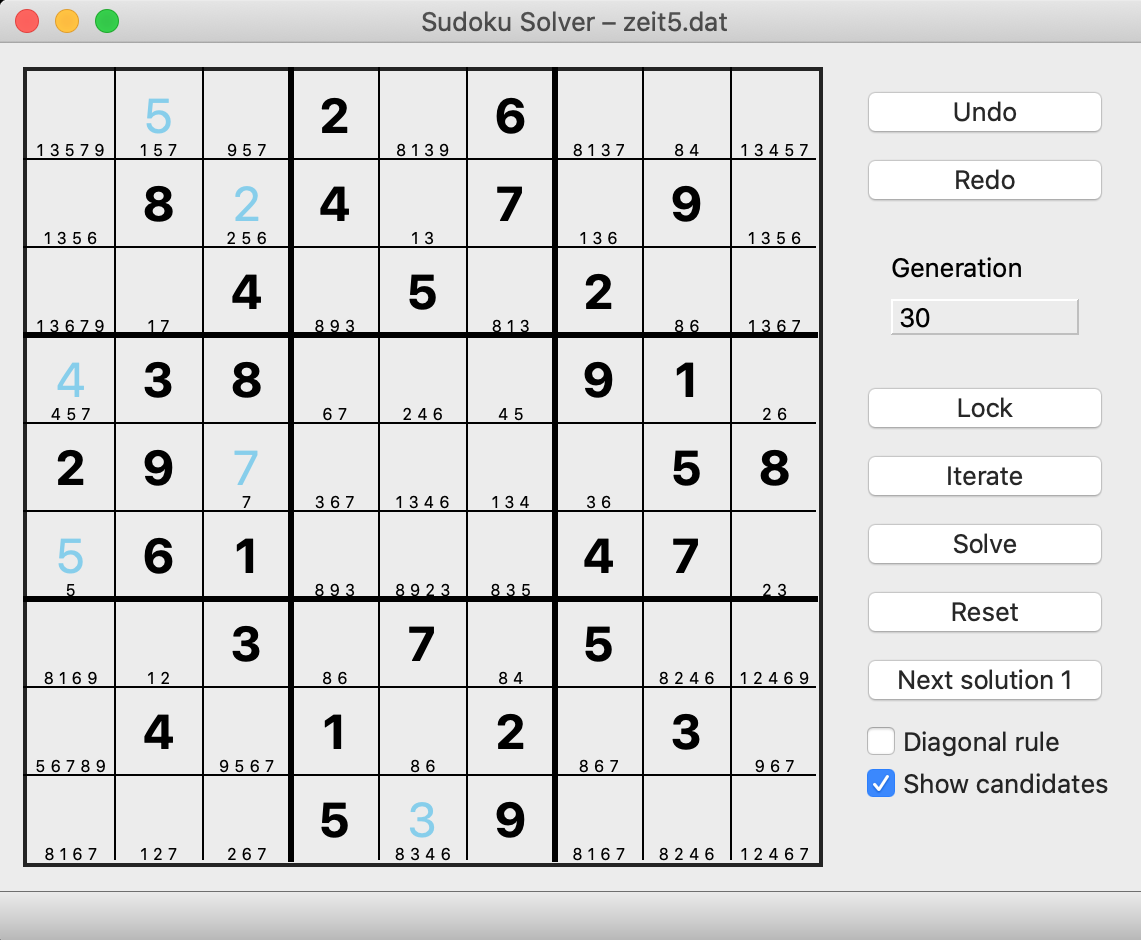
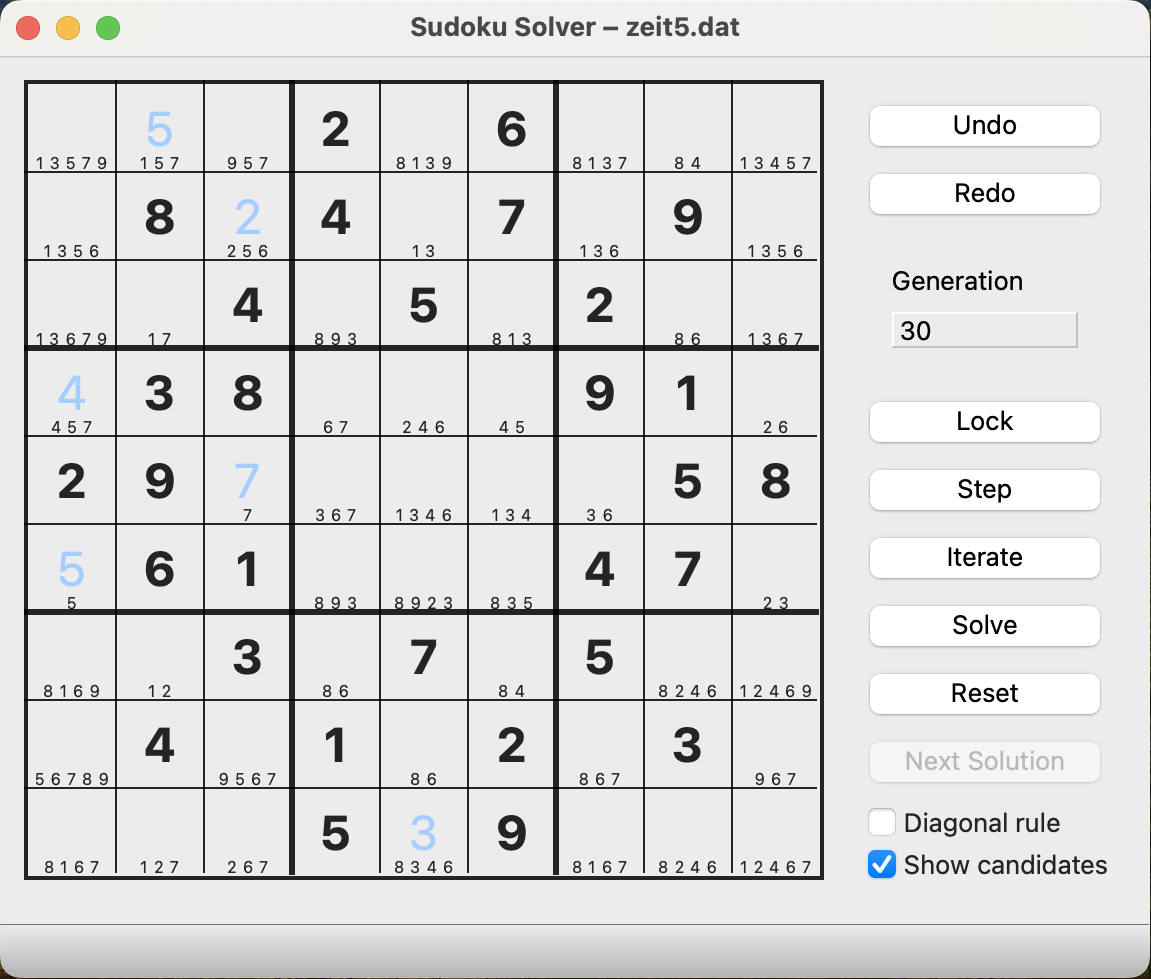
Add Step function to stop after entering current candidates

diff --git a/sudoku_GUI.py b/sudoku_GUI.py
@@ -236,7 +236,9 @@ class MainWindow(QtWidgets.QMainWindow):
         self.redo_button.clicked.connect(self.redo_action)                        
         self.redo_button.setShortcut(QtGui.QKeySequence.StandardKey.Redo)           
         self.lock_button = QtWidgets.QPushButton("Lock")
-        self.lock_button.clicked.connect(self.lock_action)        
+        self.lock_button.clicked.connect(self.lock_action)   
+        self.step_button = QtWidgets.QPushButton("Step")
+        self.step_button.clicked.connect(self.step_action)
         self.iterate_button = QtWidgets.QPushButton("Iterate")
         self.iterate_button.clicked.connect(self.iterate_action)
         self.solve_button = QtWidgets.QPushButton("Solve")
@@ -262,6 +264,7 @@ class MainWindow(QtWidgets.QMainWindow):
         button_layout.addWidget(self.redo_button)                
         button_layout.addWidget(label_group)
         button_layout.addWidget(self.lock_button)        
+        button_layout.addWidget(self.step_button)
         button_layout.addWidget(self.iterate_button)
         button_layout.addWidget(self.solve_button)        
         button_layout.addWidget(self.reset_button)
@@ -419,6 +422,16 @@ class MainWindow(QtWidgets.QMainWindow):
         self.update_display()               
             
     def iterate_action(self):
+        #Iterate the sudoku object
+        #print("Starting recursive solve")
+        self.sudoku.us()
+        
+        #Push to undo stack
+        self.undo_stack.append(self.sudoku.copy())
+        
+        self.update_display()
+
+    def step_action(self):
         #Iterate the sudoku object
         #print("Starting recursive solve")
         self.sudoku.us()

diff --git a/sudoku.py b/sudoku.py
@@ -275,7 +275,7 @@ class Sudoku():
                     return cand[0]
         return 0
 
-    def us(self):
+    def us(self, cont=False):
         #Recursively set all unambigous candidates to the grid
         #print("Iterating")        
         candidates = []
@@ -309,7 +309,10 @@ class Sudoku():
             #Increase the generation
             self.generation += 1               
             #print("Iteration finish")
-            return self.us()                                   
+            if cont:
+                return self.us(cont)
+            else:
+                return True
         
                 
     def on(self, l):

diff --git a/README.md b/README.md
@@ -12,6 +12,7 @@ Features:
 * Undo/Redo stack (`Cmd+Z`, `Shift-Cmd+Z` on Mac)
 * Generation shows number of *steps* during manual entry or iterations for the solver
 * *Lock* fixes the entered numbers, so they are not deleted during reset
+* *Step* Fill currently shown unambiguous candidates (if any).
 * *Iterate* recursively fills all unambiguous candidates (if any)
 * *Solve* solves the puzzle using a recursive algorithm (also explained here: [Youtube, Python Sudoku Solver - Computerphile](https://www.youtube.com/watch?v=G_UYXzGuqvM))
 * *Reset* deletes all numbers which are not locked.
